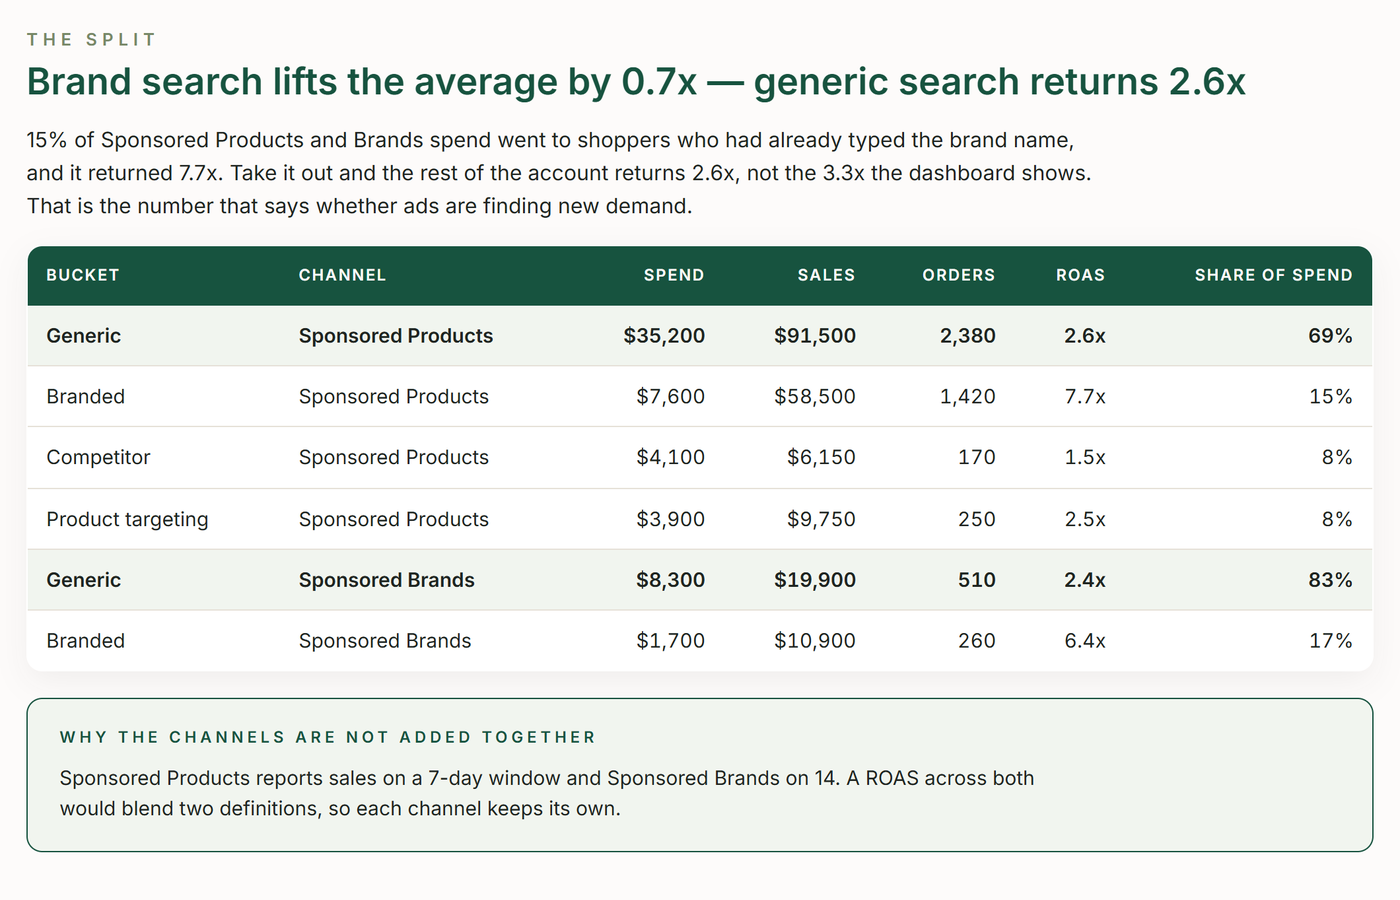
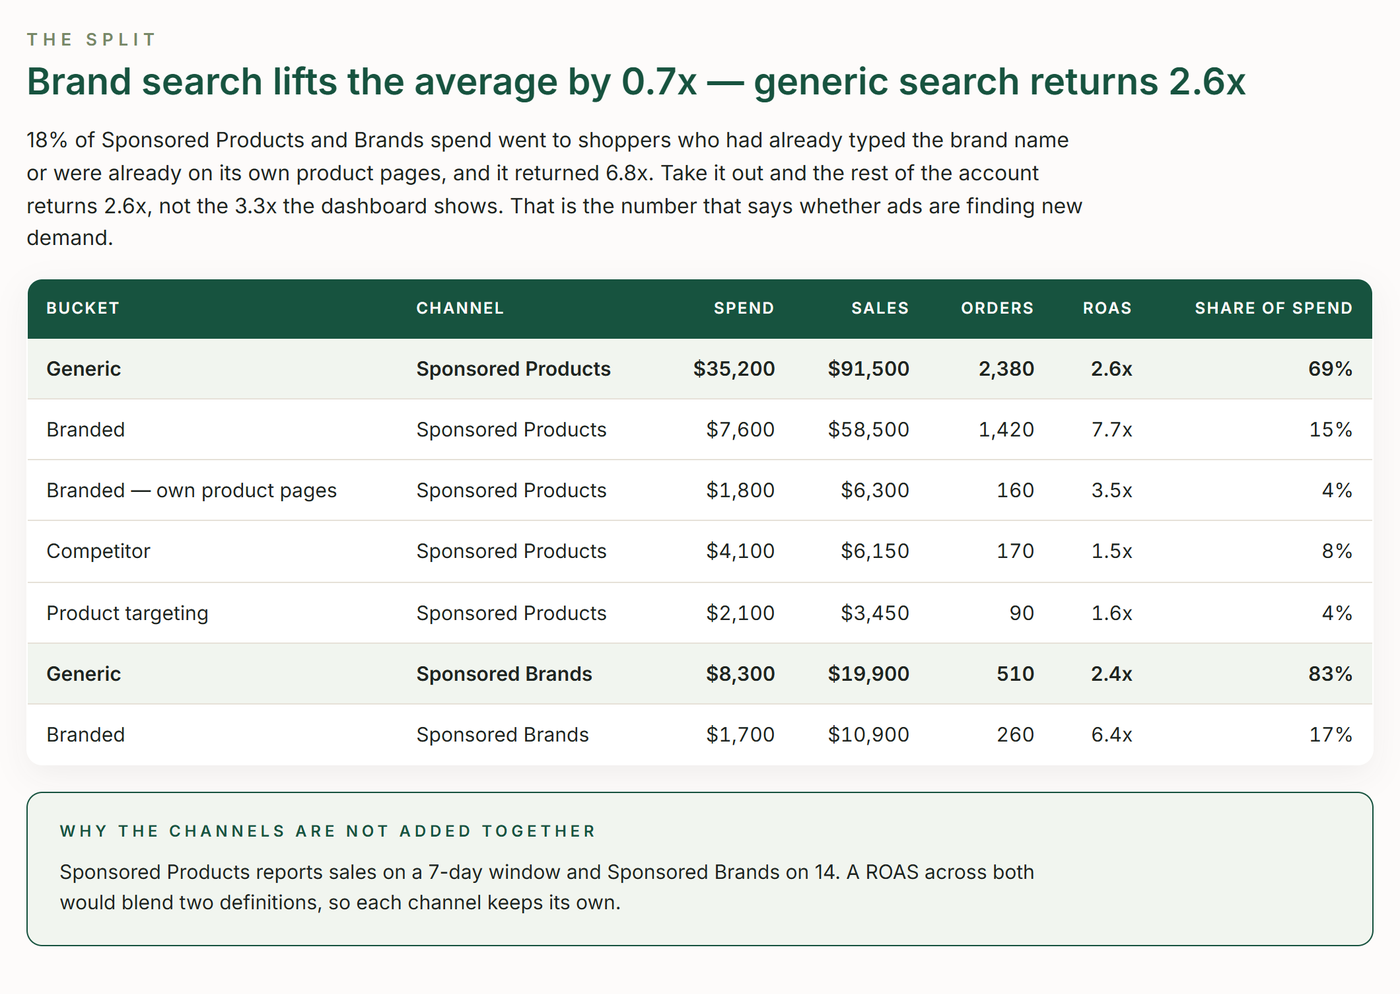
v1.1.0: fixes from a live-account test run
Counts product targeting on the brand's own ASINs as branded, merges near-duplicate queries, stops paging once 97% of channel spend is covered, and reads Search Query Performance week by week as a purchase share covering organic and paid, marking thin weeks.

diff --git a/skills/trackiq-amazon-branded-search/assets/report-template.html b/skills/trackiq-amazon-branded-search/assets/report-template.html
@@ -120,10 +120,10 @@ footer span{font-size:13px;color:var(--text-muted)}
 
 <section>
   <div class="cat-head"><h3>Is the brand spend defence?</h3>
-    <div class="figs">organic purchase share on the brand's own name</div></div>
+    <div class="figs">brand purchase share on its own name, organic and paid</div></div>
   <div class="tw"><table>
     <thead><tr><th>Branded query</th><th class="n">Ad spend</th><th class="n">Ad ROAS</th>
-    <th class="n">Organic purchase share</th><th>Reading</th></tr></thead>
+    <th class="n">Brand purchase share</th><th>Reading</th></tr></thead>
     <tbody>
       <tr><td class="q">{{D_QUERY}}</td><td class="n">{{D_SPEND}}</td><td class="n">{{D_ROAS}}</td>
       <td class="n">{{D_SHARE}}</td><td class="q">{{D_READ}}</td></tr>
@@ -151,7 +151,7 @@ footer span{font-size:13px;color:var(--text-muted)}
   <h2>Read these before acting</h2>
   <div class="callout">
     <div class="h">The terms used</div>
-    <p>Brand: {{BRAND_TERMS}}. Competitors: {{COMP_TERMS}}. Queries matching both count as branded; ASIN queries are product targeting.</p>
+    <p>Brand: {{BRAND_TERMS}}. Competitors: {{COMP_TERMS}}. Queries matching both count as branded; ASIN queries on the brand's own products count as branded (own product pages); other ASIN queries are product targeting.</p>
   </div>
   <div class="callout warn">
     <div class="h">Pull completeness</div>

diff --git a/skills/trackiq-amazon-branded-search/SKILL.md b/skills/trackiq-amazon-branded-search/SKILL.md
@@ -1,6 +1,6 @@
 ---
 name: trackiq-amazon-branded-search
-description: Splits every Amazon Sponsored Products and Sponsored Brands search term into branded, competitor, product-targeting and generic buckets, then shows where the ad money really goes — how much is spent on shoppers who already typed the brand, what generic search returns once brand is taken out, whether competitor conquesting pays — and checks organic share on the brand's own name before calling brand spend defence or waste. Use when the user asks about branded vs non-branded, brand vs generic spend, branded search, brand defence, conquesting, competitor keywords, true or non-branded ACOS, or whether ACOS is flattered by brand terms.
+description: Splits every Amazon Sponsored Products and Sponsored Brands search term into branded, competitor, product-targeting and generic buckets, then shows where the ad money really goes — how much is spent on shoppers who already typed the brand, what generic search returns once brand is taken out, whether competitor conquesting pays — and checks the brand's purchase share on its own name before calling brand spend defence or waste. Use when the user asks about branded vs non-branded, brand vs generic spend, branded search, brand defence, conquesting, competitor keywords, true or non-branded ACOS, or whether ACOS is flattered by brand terms.
 ---
 
 # Branded vs. Non-Branded Search
@@ -15,7 +15,8 @@ Run it monthly, and before any conversation about "our ACOS is fine".
 ## Requires
 
 - The TrackIQ MCP, for `list_marketplaces`, `get_search_terms`,
-  `get_targets` and `get_search_query_performance`.
+  `get_targets`, `get_search_query_performance`, `get_product_performance`
+  and `get_campaigns`.
 - **The brand's own terms**, from the Brand terms block in account.md — the
   brand name, its misspellings and its product-line names. Ask once.
 - **Competitor brand names**, from the same block. Optional; without them
@@ -51,7 +52,7 @@ paste it into their project instructions once.
    product targeting typed into search, not a generic term.
 4. **Never call brand spend waste on ROAS alone.** Brand terms always return
    well. The question is whether the brand would have won the sale anyway —
-   check the brand's organic purchase share on its own name first
+   check the brand's purchase share on its own name first
    (`assets/method.md` §4), and recommend a controlled test, never a cut.
 5. **The headline is generic ROAS, not blended.** Blended ACOS is shown for
    reference, beside it, labelled.
@@ -64,7 +65,7 @@ paste it into their project instructions once.
 ## What the account will argue with
 
 Some brands bid on their own name because a competitor is conquesting it.
-If the brand's organic share on its own name is low, or a competitor shows up
+If the brand's purchase share on its own name is low, or a competitor shows up
 in the branded queries' sponsored slots, brand spend is defence — say so
 rather than implying it is inflating the numbers for nothing.
 
@@ -93,7 +94,7 @@ outward channel.
 
 ## Version
 
-`trackiq-amazon-branded-search` v1.0.0 (2026-09-21).
+`trackiq-amazon-branded-search` v1.1.0 (2026-09-21).
 
 If the user asks whether this skill is current, fetch
 `https://trackiq.com/skills/registry.json`, compare the `version` field for

diff --git a/skills/trackiq-amazon-branded-search/assets/pulls.md b/skills/trackiq-amazon-branded-search/assets/pulls.md
@@ -17,7 +17,8 @@ Window: a trailing 30 days.
 | 1 | `get_search_terms` | `ad_type='sp'`, `sort='spend DESC'` | customer query, spend, sales, orders — SP, 7-day window |
 | 2 | `get_search_terms` | `ad_type='sb'`, `sort='spend DESC'` | the same for SB, 14-day window |
 | 3 | `get_targets` | `record_type='KEYWORD'`, `ad_type='all'`, `state='enabled'` | the keywords the account bids on, to spot brand keywords with no search volume |
-| 4 | `get_search_query_performance` | the top 10 branded queries by spend | the brand's organic purchase share on its own name |
+| 4 | `get_search_query_performance` | `query_contains` = each brand term, one call per week of the window | the brand's purchase share on its own name |
+| 5 | `get_product_performance` | same window | the brand's own ASINs, to recognise its own product pages among product-targeting queries |
 
 ## 2. Why SP and SB are separate pulls
 
@@ -29,8 +30,15 @@ spend-only combined view where windows do not matter.
 ## 3. Paginate — the limit is binding
 
 Search terms are a long tail, and the tail is almost all generic. Page with
-`offset` until a call returns fewer rows than the limit. Stopping early makes
-brand look like a bigger share of spend than it is.
+`offset` and keep a running spend total. Stop when a call returns fewer rows
+than the limit, **or** when the pulled spend reaches 97% of the channel's
+spend in `get_campaigns` for the same window — on a large account the last
+3% can be thousands of queries under $3 each. Report the share of channel
+spend covered. Stopping early makes brand look like a bigger share of spend
+than it is.
+
+Do not trust `next_cursor` to end the loop: it can come back `null` on a
+page that returned exactly `limit` rows.
 
 ## 4. What the search-term report will not tell you
 
@@ -40,8 +48,15 @@ question here. It cannot say which keyword caught the query.
 
 ## 5. Search Query Performance
 
-`get_search_query_performance` covers organic and paid together and is
-reported weekly. Use the brand's **purchase share** on its own branded
-queries — the share of all purchases on that search that went to the brand.
-If it is not available for a query (SQP is sparse on small brands), say so
-for that row rather than estimating it.
+`get_search_query_performance` covers organic and paid together — it is
+not an organic figure. The field is `pur_brand_share`: the share of all
+purchases on that search that went to the brand.
+
+It is weekly and pins to the **latest week** overlapping the dates you pass,
+so one call per week (Sunday to Saturday) is the only way to cover a month.
+Show the weeks side by side; never average shares across them.
+
+Brand searches are small. A week with fewer than **20** `market_purchases`
+on a query is too thin to read — "100%" on nine purchases says little. Mark
+it thin rather than quoting the share. If a query has no SQP row at all, say
+so rather than estimating it.

diff --git a/skills/trackiq-amazon-branded-search/assets/method.md b/skills/trackiq-amazon-branded-search/assets/method.md
@@ -3,22 +3,32 @@
 ## 1. Normalise
 
 Lowercase the query, collapse whitespace, strip punctuation except hyphens.
-Normalise the brand and competitor terms the same way.
+Normalise the brand and competitor terms the same way. Then **sum rows that
+normalise to the same query** — the report returns near-duplicates
+("demo outdoor 48ft" and "demo outdoor  48ft") as separate rows.
 
 ## 2. Classify, in this order
 
-1. **Product targeting** — the query matches `^b0[a-z0-9]{8}$`.
-2. **Branded** — the query contains any brand term or misspelling as a whole
+1. **Own product pages** — the query matches `^b0[a-z0-9]{8}$` and is one
+   of the brand's own ASINs (pull 5). This is brand defence on the brand's
+   detail pages and belongs with branded spend: report it as its own line
+   inside the branded bucket. It is often larger than the spend on branded
+   keywords.
+2. **Product targeting** — any other ASIN query.
+3. **Branded** — the query contains any brand term or misspelling as a whole
    word or whole phrase. Product-line names count as branded.
-3. **Competitor** — the query contains any competitor brand term.
-4. **Generic** — everything else.
+4. **Competitor** — the query contains any competitor brand term.
+5. **Generic** — everything else.
 
 A query containing both a brand and a competitor term is **branded** — the
 shopper named the brand.
 
 Whole-word matching matters. A brand called "Glow" must not claim
 "glow in the dark stickers"; check the ten largest branded queries by eye
-and add exclusions to account.md when it misfires.
+and add exclusions to account.md when it misfires. The same goes for
+competitor names that are also plain descriptions ("Pure", "True", "Raw"):
+match them only as the full brand phrase, or they pull generic searches into
+the competitor bucket.
 
 ## 3. Per bucket, per channel
 
@@ -32,10 +42,13 @@ sales. Then a combined **spend-only** view across SP and SB.
 
 ## 4. Is the brand spend defence?
 
-For the ten branded queries with the most spend, read the brand's organic
-purchase share from Search Query Performance.
+For the ten branded queries with the most spend, read the brand's purchase
+share (`pur_brand_share`) from Search Query Performance, week by week. It
+counts organic and paid purchases together, so it measures how much of the
+search the brand already wins, not how much it would win without ads. Skip
+weeks marked thin.
 
-| Organic purchase share on its own name | Reading |
+| Purchase share on its own name | Reading |
 |---|---|
 | 80% or more, no competitor in the branded queries | Mostly harvesting. Recommend a two-week test at reduced bids on exact brand terms, measuring total brand sales, not ad sales. |
 | 50–80% | Mixed. Keep it and watch. |

diff --git a/README.md b/README.md
@@ -33,7 +33,7 @@ Works with Claude, ChatGPT and Cursor. **[Get access →](https://trackiq.com/mc
 
 ![A TrackIQ: Amazon Branded vs. Non-Branded Search report](.github/page/hero.png)
 
-Splits every Amazon Sponsored Products and Sponsored Brands search term into branded, competitor, product-targeting and generic buckets, then shows where the ad money really goes — how much is spent on shoppers who already typed the brand, what generic search returns once brand is taken out, whether competitor conquesting pays — and checks organic share on the brand's own name before calling brand spend defence or waste. Use when the user asks about branded vs non-branded, brand vs generic spend, branded search, brand defence, conquesting, competitor keywords, true or non-branded ACOS, or whether ACOS is flattered by brand terms.
+Splits every Amazon Sponsored Products and Sponsored Brands search term into branded, competitor, product-targeting and generic buckets, then shows where the ad money really goes — how much is spent on shoppers who already typed the brand, what generic search returns once brand is taken out, whether competitor conquesting pays — and checks the brand's purchase share on its own name before calling brand spend defence or waste. Use when the user asks about branded vs non-branded, brand vs generic spend, branded search, brand defence, conquesting, competitor keywords, true or non-branded ACOS, or whether ACOS is flattered by brand terms.
 
 ### The rules that keep it honest
 

diff --git a/skills/trackiq-amazon-branded-search/assets/checks.md b/skills/trackiq-amazon-branded-search/assets/checks.md
@@ -17,7 +17,7 @@
 
 ## 3. Is the brand-spend reading fair?
 
-- Every branded query in the defence table has an organic purchase share, or
+- Every branded query in the defence table has a purchase share, or
   says it was unavailable.
 - The recommendation is a test with a success measure, never a cut.
 
